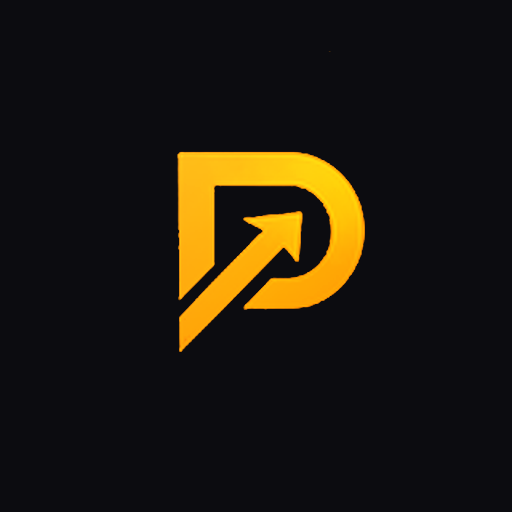
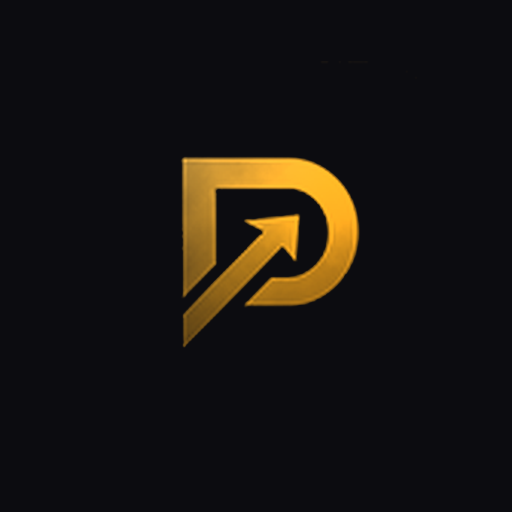
fix(ui): monograma P+seta restaurado em ouro (sem cara de Bitcoin)
Recolor agressiva + object-cover comia a forma na sidebar. Volta o
símbolo canônico dourado com AA intacto, object-contain no brand e
favicon/PWA regenerados da mesma marca (?v=8).

Changed region(s): [[0.3438, 0.2812, 0.7188, 0.6875]]

diff --git a/src/components/brand/PraxisBrand.jsx b/src/components/brand/PraxisBrand.jsx
@@ -16,22 +16,22 @@ export default function PraxisBrand({
   return (
     <div className={cn('flex items-center gap-3', className)}>
       <div
-        className={cn(
-          'praxis-brand-mark relative flex h-10 w-10 shrink-0 items-center justify-center overflow-hidden rounded-xl',
-          'border border-white/10 bg-[#0c0c10] shadow-[inset_0_1px_0_rgba(255,255,255,0.06)]',
-          markClassName,
-        )}
-        aria-hidden
-      >
-        <img
-          src="/praxis-logo.png"
-          alt=""
-          width={40}
-          height={40}
-          decoding="async"
-          className="h-full w-full object-cover"
-        />
-      </div>
+              className={cn(
+                'praxis-brand-mark relative flex h-10 w-10 shrink-0 items-center justify-center overflow-hidden rounded-xl',
+                'border border-white/10 bg-[#0c0c10] shadow-[inset_0_1px_0_rgba(255,255,255,0.06)]',
+                markClassName,
+              )}
+              aria-hidden
+            >
+              <img
+                src="/praxis-logo.png?v=8"
+                alt=""
+                width={40}
+                height={40}
+                decoding="async"
+                className="h-[86%] w-[86%] object-contain"
+              />
+            </div>
 
       {!compact ? (
         <div className="min-w-0">

diff --git a/index.html b/index.html
@@ -2,12 +2,12 @@
 <html lang="pt-BR">
   <head>
     <meta charset="UTF-8" />
-    <link rel="icon" href="/favicon.ico?v=7" sizes="any" />
-    <link rel="icon" type="image/png" sizes="32x32" href="/favicon-32.png?v=7" />
-    <link rel="icon" type="image/png" sizes="16x16" href="/favicon-16.png?v=7" />
-    <link rel="icon" type="image/svg+xml" href="/favicon.svg?v=7" />
-    <link rel="apple-touch-icon" href="/apple-touch-icon.png?v=7" />
-    <link rel="manifest" href="/manifest.webmanifest?v=7" />
+    <link rel="icon" href="/favicon.ico?v=8" sizes="any" />
+    <link rel="icon" type="image/png" sizes="32x32" href="/favicon-32.png?v=8" />
+    <link rel="icon" type="image/png" sizes="16x16" href="/favicon-16.png?v=8" />
+    <link rel="icon" type="image/svg+xml" href="/favicon.svg?v=8" />
+    <link rel="apple-touch-icon" href="/apple-touch-icon.png?v=8" />
+    <link rel="manifest" href="/manifest.webmanifest?v=8" />
     <meta name="viewport" content="width=device-width, initial-scale=1.0, viewport-fit=cover" />
     <meta name="theme-color" content="#0c0c10" />
     <meta name="apple-mobile-web-app-capable" content="yes" />

diff --git a/src/pages/Landing.jsx b/src/pages/Landing.jsx
@@ -311,7 +311,7 @@ export default function Landing() {
                 </p>
                 <div className="mt-8 flex items-center gap-3 text-sm font-medium text-foreground/85">
                   <span className="flex h-9 w-9 items-center justify-center overflow-hidden rounded-xl border border-domain-gold/20 bg-[#0c0c10]">
-                    <img src="/praxis-logo.png" alt="" width={36} height={36} className="h-full w-full object-cover" />
+                    <img src="/praxis-logo.png?v=8" alt="" width={36} height={36} className="h-[86%] w-[86%] object-contain" />
                   </span>
                   <span>Fale. Organize. Execute.</span>
                 </div>

diff --git a/src/components/landing/PraxisLivePreview.jsx b/src/components/landing/PraxisLivePreview.jsx
@@ -45,7 +45,7 @@ function PreviewBrand() {
   return (
     <div className="flex items-center gap-2">
       <div className="relative flex h-9 w-9 items-center justify-center overflow-hidden rounded-xl border border-white/10 bg-[#0c0c10]">
-        <img src="/praxis-logo.png" alt="" width={36} height={36} className="h-full w-full object-cover" />
+        <img src="/praxis-logo.png?v=8" alt="" width={36} height={36} className="h-[86%] w-[86%] object-contain" />
       </div>
       <span className="praxis-title hidden text-sm font-bold sm:inline">Praxis</span>
     </div>
